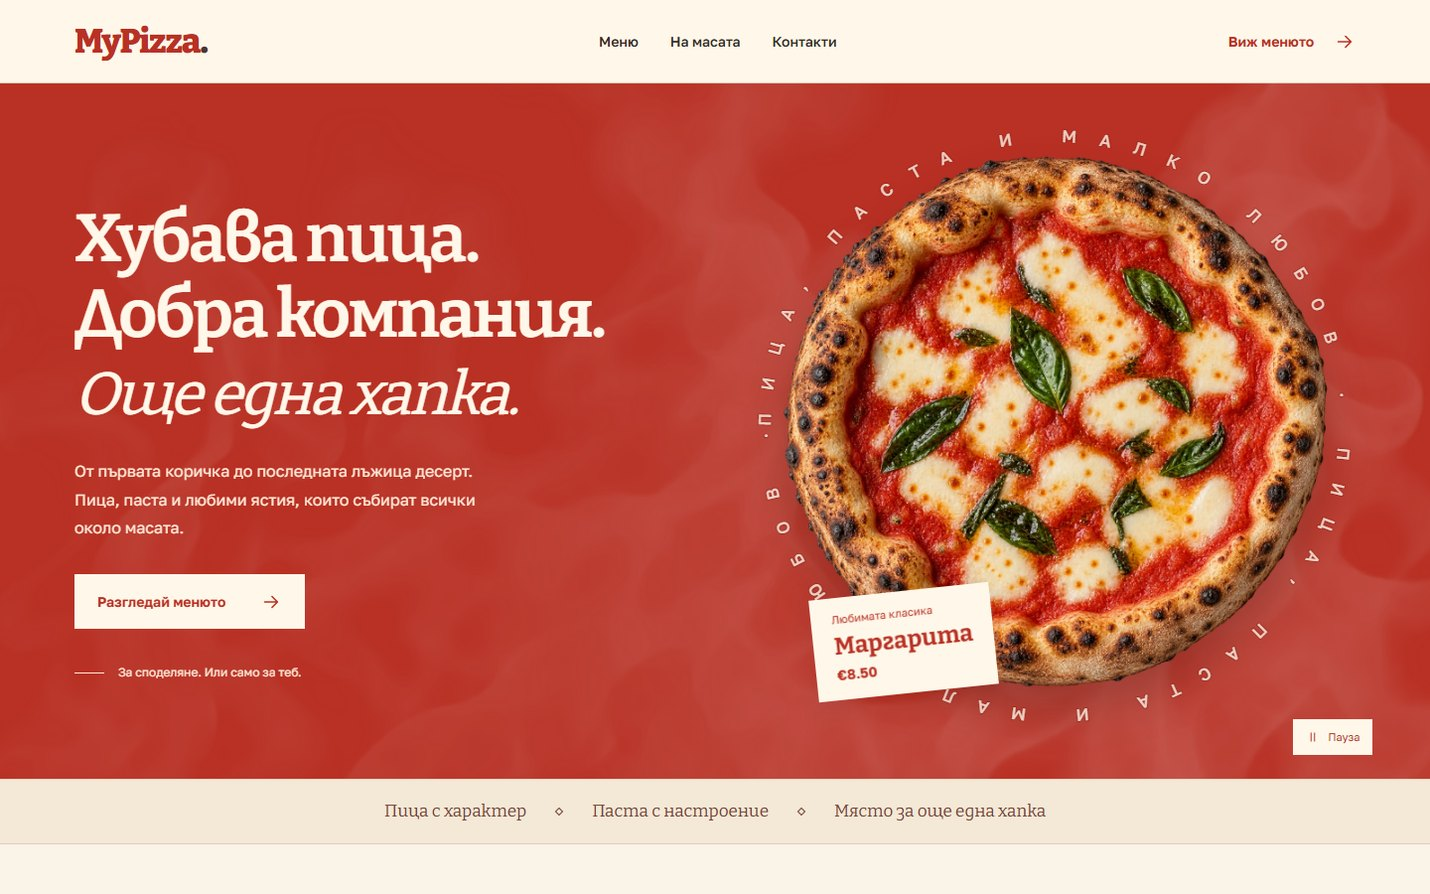
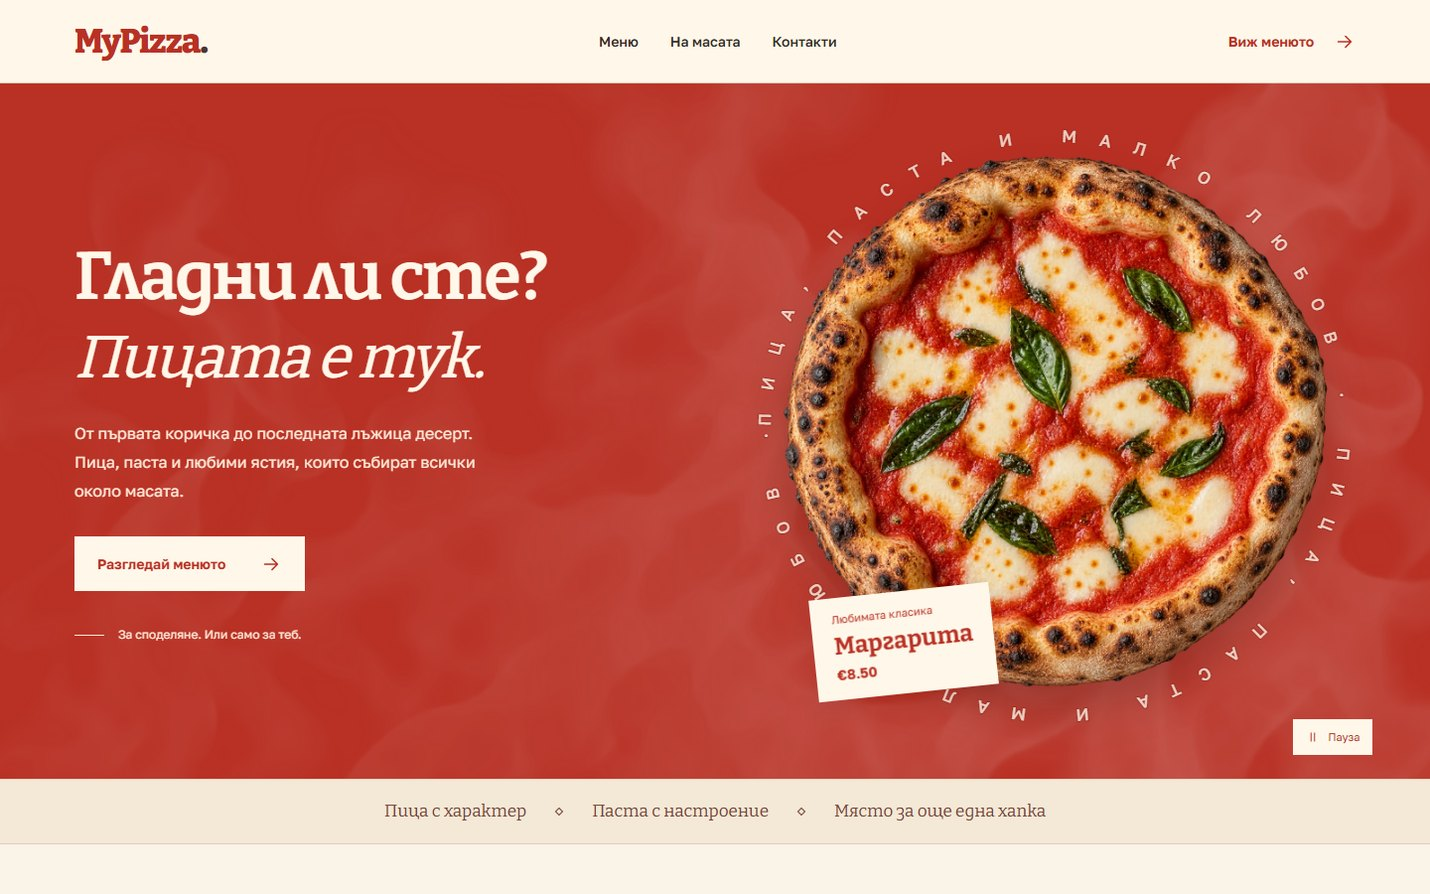
MyPizza: heading „Гладни ли сте? Пицата е тук.“
Replaces „Хубава пица. Добра компания. Още една хапка.“, which read as
AI-written to the owner (pick 5 of 10). Posters and thumb remade.

Changed region(s): [[0.0308, 0.2114, 0.4308, 0.755]]

diff --git a/sites/mypizza/MyPizza-Red-Paper.html b/sites/mypizza/MyPizza-Red-Paper.html
@@ -86,7 +86,7 @@ body.red-shape.motion-paused .steam-wisp{animation-play-state:paused}
   <main>
     <section class="hero" id="home" aria-labelledby="hero-title">
       <div class="hero-steam" aria-hidden="true"><img class="steam-wisp steam-one" src="preview-images/7077eaa498c49243cf643c34.webp" alt="" width="1536" height="1024" fetchpriority="high"></div><div class="hero-copy">
-        <h1 id="hero-title" data-i18n-html="heroTitle">Хубава пица.<br>Добра компания.<br><em>Още една хапка.</em></h1>
+        <h1 id="hero-title" data-i18n-html="heroTitle">Гладни ли сте?<br><em>Пицата е тук.</em></h1>
         <p data-i18n="heroText">От първата коричка до последната лъжица десерт. Пица, паста и любими ястия, които събират всички около масата.</p>
         <a class="button button-cream" href="#menu"><span data-i18n="explore">Разгледай менюто</span><svg viewBox="0 0 24 24" aria-hidden="true"><path d="M5 12h14m-6-6 6 6-6 6"/></svg></a>
         <div class="hero-note"><span class="small-rule"></span><span data-i18n="heroNote">За споделяне. Или само за теб.</span></div>
@@ -132,14 +132,14 @@ body.red-shape.motion-paused .steam-wisp{animation-play-state:paused}
 const translations = {
   bg: {
     skip:'Към менюто', menu:'Меню', about:'На масата', contact:'Контакти', nav:'Основна навигация', openNav:'Отвори навигацията', viewMenu:'Виж менюто',
-    heroTitle:'Хубава пица.<br>Добра компания.<br><em>Още една хапка.</em>', heroText:'От първата коричка до последната лъжица десерт. Пица, паста и любими ястия, които събират всички около масата.', explore:'Разгледай менюто', heroNote:'За споделяне. Или само за теб.', heroArt:'Пица Маргарита', heroImage:'Маргарита с моцарела, доматен сос и пресен босилек', signature:'Любимата класика', pause:'Пауза', play:'Пусни анимацията', strip1:'Пица с характер',strip2:'Паста с настроение',strip3:'Място за още една хапка',
+    heroTitle:'Гладни ли сте?<br><em>Пицата е тук.</em>', heroText:'От първата коричка до последната лъжица десерт. Пица, паста и любими ястия, които събират всички около масата.', explore:'Разгледай менюто', heroNote:'За споделяне. Или само за теб.', heroArt:'Пица Маргарита', heroImage:'Маргарита с моцарела, доматен сос и пресен босилек', signature:'Любимата класика', pause:'Пауза', play:'Пусни анимацията', strip1:'Пица с характер',strip2:'Паста с настроение',strip3:'Място за още една хапка',
     menuTitle:'Какво ти се<br><em>хапва днес?</em>', menuIntro:'Нещо за начало, любимата пица или дълъг обяд. Избери си — хубавото е в споделянето.',demoMenu:'Примерно меню · цените са в евро',categories:'Категории на менюто',pizza:'Пици',starters:'За начало',salads:'Салати',mains:'Паста & основни',desserts:'Десерти',drinks:'Напитки',searchLabel:'Търси ястие или съставка',searchPlaceholder:'Ястие или съставка…',filters:'Филтри на менюто',all:'Всички',vegetarian:'Без месо',spicy:'Пикантно',emptyTitle:'Тази хапка още я няма.',emptyText:'Опитай друга съставка или изчисти филтрите.',reset:'Покажи цялото меню',allergenNote:'Алергените са описани към всяко ястие. За алергии или специален хранителен режим винаги се обърнете към екипа. Грамажите са ориентировъчни.',allergens:'Алергени',noListed:'Няма изброени',found:'предложения в менюто',
     pizzaNote:'Хрупкава коричка. Любими вкусове.',startersNote:'Първата хапка е за споделяне.',saladsNote:'Свежо, цветно, щедро.',mainsNote:'За дълги обеди и хубави вечери.',dessertsNote:'Винаги има място.',drinksNote:'Нещо свежо към всяка хапка.',
     tableImage:'Пица с бурата, домати и свеж босилек',photoCaption:'Поводът е прост. Хубава храна.',tableTitle:'Пицария.<br>Ресторант.<br><em>Твоята маса.</em>',tableText:'За бърза пица след работа и за вечерите, които не бързат да свършат. MyPizza събира италианските класики с любимите вкусове на един уютен ресторант.',tableText2:'Започни със салата или нещо хрупкаво. Сподели пица, избери паста и остави малко място за тирамису.',chooseDish:'Избери следващата си хапка',visitTitle:'Ще се видим<br><em>на масата.</em>',visitIntro:'Тук започва следващият хубав обяд. Или вечеря. Или „само по едно парче“.',findUs:'Намери ни',address:'ул. „Твоята улица“ 12<br>Твоят град, България',addressNote:'Примерен адрес за демонстрацията',sayHello:'Кажи „здравей“',contactNote:'Контактите се добавят преди публикуване',hours:'Работно време',weekdays:'Понеделник – Петък',weekends:'Събота – Неделя',hoursNote:'Примерно работно време',
     faqTitle:'Преди първата хапка.',faq1:'Има ли вегетариански предложения?',faq1Text:'Да. В менюто ще намерите пици, салати и десерти без месо. Използвайте филтъра „Без месо“, за да ги разгледате. Те могат да съдържат млечни продукти и яйца.',faq2:'Къде са описани алергените?',faq2Text:'Към всяко ястие са отбелязани основните алергени. Информацията е примерна за този демо сайт; преди поръчка проверете съставките и възможното кръстосано замърсяване с екипа на ресторанта.',faq3:'Как да отворя директно менюто?',faq3Text:'Бутонът „Виж менюто“ води към всички категории. QR кодът на масата може да използва същата страница с #menu в края на адреса.',footerLine:'Пица, паста и още малко любов.',demoFooter:'Демонстрационен ресторантски сайт',backMenu:'Към менюто ↑',title:'MyPizza — пица, паста и още нещо вкусно',description:'Разгледайте менюто на MyPizza: пици, салати, паста, основни ястия и десерти. Намерете съставки, цени и информация за посещение на едно място.'
   },
   en: {
-    skip:'Skip to the menu',menu:'Menu',about:'At the table',contact:'Visit us',nav:'Main navigation',openNav:'Open navigation',viewMenu:'View menu',heroTitle:'Good pizza.<br>Great company.<br><em>One more bite.</em>',heroText:'From the first crust to the last spoonful of dessert. Pizza, pasta and familiar favorites that bring everyone to the table.',explore:'Explore the menu',heroNote:'Made to share. Or keep to yourself.',heroArt:'Margherita pizza',heroImage:'Margherita with mozzarella, tomato sauce and fresh basil',signature:'The favorite classic',pause:'Pause',play:'Play animation',strip1:'Pizza with personality',strip2:'Pasta for the occasion',strip3:'Room for one more bite',
+    skip:'Skip to the menu',menu:'Menu',about:'At the table',contact:'Visit us',nav:'Main navigation',openNav:'Open navigation',viewMenu:'View menu',heroTitle:'Hungry?<br><em>The pizza is here.</em>',heroText:'From the first crust to the last spoonful of dessert. Pizza, pasta and familiar favorites that bring everyone to the table.',explore:'Explore the menu',heroNote:'Made to share. Or keep to yourself.',heroArt:'Margherita pizza',heroImage:'Margherita with mozzarella, tomato sauce and fresh basil',signature:'The favorite classic',pause:'Pause',play:'Play animation',strip1:'Pizza with personality',strip2:'Pasta for the occasion',strip3:'Room for one more bite',
     menuTitle:'What are you<br><em>craving today?</em>',menuIntro:'A little something to start, your favorite pizza, or a long lunch. Take your pick. The best part is sharing.',demoMenu:'Sample menu · prices in euros',categories:'Menu categories',pizza:'Pizzas',starters:'To start',salads:'Salads',mains:'Pasta & mains',desserts:'Desserts',drinks:'Drinks',searchLabel:'Search for a dish or ingredient',searchPlaceholder:'A dish or ingredient…',filters:'Menu filters',all:'All',vegetarian:'Meat-free',spicy:'Spicy',emptyTitle:'That bite is not here yet.',emptyText:'Try another ingredient or clear the filters.',reset:'Show the whole menu',allergenNote:'Allergens are listed with each dish. Always speak to the restaurant team about allergies or dietary requirements. Portion weights are approximate.',allergens:'Allergens',noListed:'None listed',found:'menu items found',pizzaNote:'A crisp crust. Your favorite flavors.',startersNote:'The first bite is for sharing.',saladsNote:'Fresh, colorful, generous.',mainsNote:'For long lunches and lovely evenings.',dessertsNote:'There is always room.',drinksNote:'Something refreshing on the side.',
     tableImage:'Burrata pizza with tomatoes and fresh basil',photoCaption:'A simple occasion. Good food.',tableTitle:'Pizzeria.<br>Restaurant.<br><em>Your table.</em>',tableText:'For a quick pizza after work and the evenings that refuse to end. MyPizza brings Italian classics together with the familiar flavors of a welcoming neighborhood restaurant.',tableText2:'Start with a salad or a little something crisp. Share a pizza, choose a pasta, and leave some room for tiramisu.',chooseDish:'Find your next favorite bite',visitTitle:'See you<br><em>at the table.</em>',visitIntro:'Your next lovely lunch starts here. Or dinner. Or “just one slice.”',findUs:'Find us',address:'12 Your Street<br>Your City, Bulgaria',addressNote:'Illustrative address for this demo',sayHello:'Say hello',contactNote:'Add real contact details before publishing',hours:'Opening hours',weekdays:'Monday – Friday',weekends:'Saturday – Sunday',hoursNote:'Illustrative opening hours',faqTitle:'Before the first bite.',faq1:'Are there vegetarian options?',faq1Text:'Yes. Our menu includes meat-free pizzas, salads and desserts. Use the “Meat-free” filter to find them. These dishes may contain dairy and eggs.',faq2:'Where can I find allergen information?',faq2Text:'The main allergens are shown with every dish. This is illustrative information for a demo website. Confirm ingredients and cross-contamination with the restaurant team before ordering.',faq3:'How do I open the menu directly?',faq3Text:'The “View menu” button opens all menu categories. A table QR code can point to the same page with #menu at the end of its address.',footerLine:'Pizza, pasta & a little amore.',demoFooter:'Restaurant website concept',backMenu:'Back to the menu ↑',title:'MyPizza — pizza, pasta and one more bite',description:'Explore the MyPizza restaurant menu: pizzas, salads, pasta, main dishes and desserts. Find ingredients, prices and visit information in one place.'
   }

diff --git a/assets/projects.js b/assets/projects.js
@@ -66,7 +66,7 @@ window.LUMINA_PROJECTS = [
     kind: 'Пицария',
     blurb: 'Меню с категории, търсене и филтри, което се разглежда удобно и с една ръка.',
     paper: 'blue',
-    url: 'sites/mypizza/MyPizza-Red-Paper.html?v=2', // v=2: Bulgarian only (2026-10-17)
+    url: 'sites/mypizza/MyPizza-Red-Paper.html?v=3', // v=3: Bulgarian only, new heading (2026-10-17)
     // Public address is still a placeholder; show the working local preview.
     readySelector: 'main',
     resetSelector: '#reset-filters',
@@ -74,8 +74,8 @@ window.LUMINA_PROJECTS = [
     ink: '#fff7e9',
     colorScheme: 'light',
     modes: {
-      desktop: { width: 1440, height: 900, poster: 'assets/previews/mypizza-desktop.jpg?v=2' },
-      mobile: { width: 402, height: 778, poster: 'assets/previews/mypizza-mobile.jpg?v=2' }
+      desktop: { width: 1440, height: 900, poster: 'assets/previews/mypizza-desktop.jpg?v=3' },
+      mobile: { width: 402, height: 778, poster: 'assets/previews/mypizza-mobile.jpg?v=3' }
     }
   }
 ];

diff --git a/index.html b/index.html
@@ -45,7 +45,7 @@
   <link rel="stylesheet" href="assets/hero-demos.css?v=3">
   <script src="assets/hero-demos.js?v=1" defer></script>
   <script src="services-ideas.js?v=14" defer></script>
-  <script src="assets/projects.js?v=7" defer></script>
+  <script src="assets/projects.js?v=8" defer></script>
   <script src="assets/project-stories.js?v=12" defer></script>
   <script src="portfolio-story.js?v=13" defer></script>
   <script src="assets/site-preview.js?v=13" defer></script>

diff --git a/CLAUDE.md b/CLAUDE.md
@@ -40,7 +40,7 @@ Design review 2026-10-13 (Impeccable critique + audit, saved in `.impeccable/cri
 
 Projects in the portfolio change only when the visitor picks one (`data-auto-advance="false"` on `#portfolio`); the preview inside keeps scrolling.
 
-MyPizza is Bulgarian only since 2026-10-17 (owner's request): its EN button is `hidden` and a remembered `mypizza-language` choice is ignored (the English dictionary stays in the file, unused); the ring around the pizza reads „ПИЦА, ПАСТА И МАЛКО ЛЮБОВ“, the caption „Маргарита“, the footer „Пица, паста и още малко любов.“ Its posters and thumb were remade then (`?v=2`).
+MyPizza is Bulgarian only since 2026-10-17 (owner's request): its EN button is `hidden` and a remembered `mypizza-language` choice is ignored (the English dictionary stays in the file, unused); the ring around the pizza reads „ПИЦА, ПАСТА И МАЛКО ЛЮБОВ“, the caption „Маргарита“, the footer „Пица, паста и още малко любов.“ The heading „Хубава пица. Добра компания. Още една хапка.“ read as AI-written to the owner and became „Гладни ли сте? / Пицата е тук.“ (pick 5 of 10). Its posters and thumb were remade then (`?v=3`).
 
 `overview.css/js`, `portfolio.js` and `contact.js` are the previous versions of these sections; they are kept but no longer loaded. The new sections were designed in a separate Codex copy of the project and merged in on 2026-10-11; its standalone variation pages were deliberately not brought over.
 
